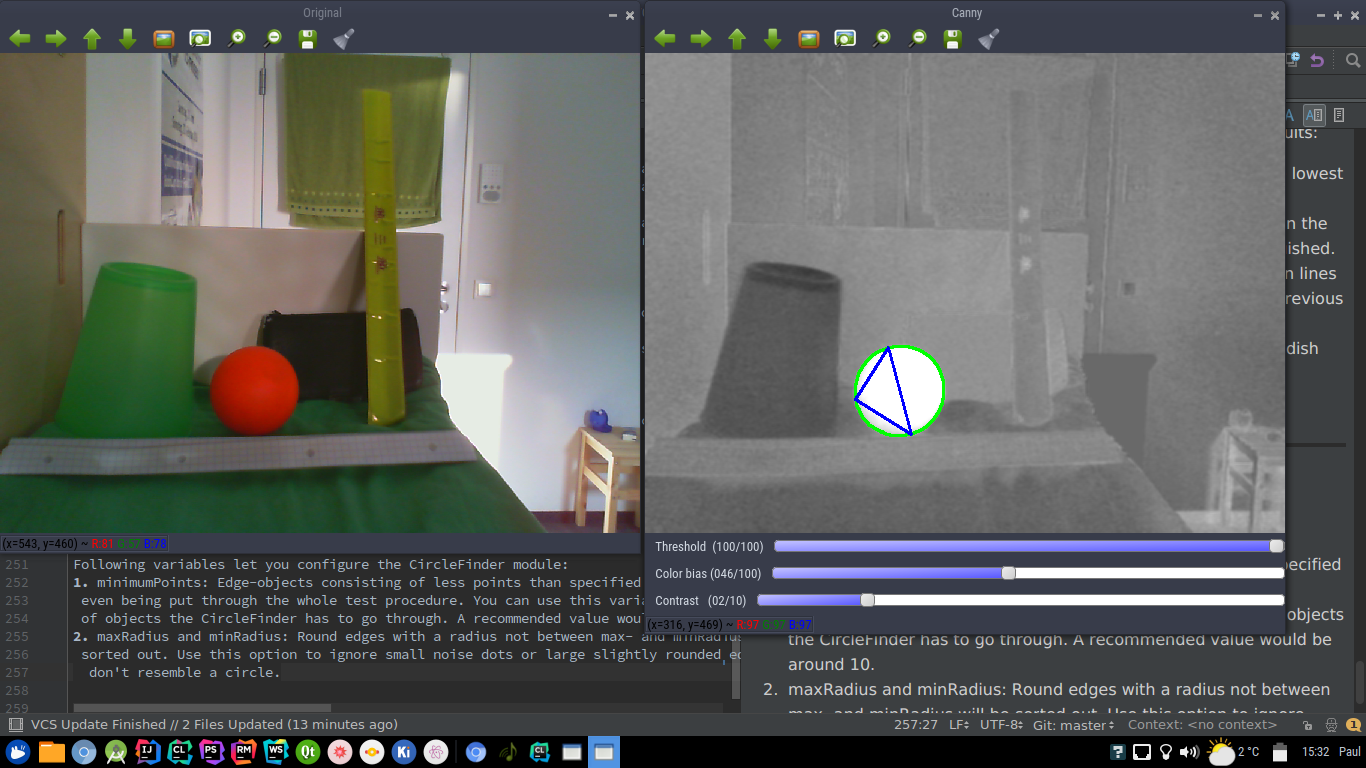
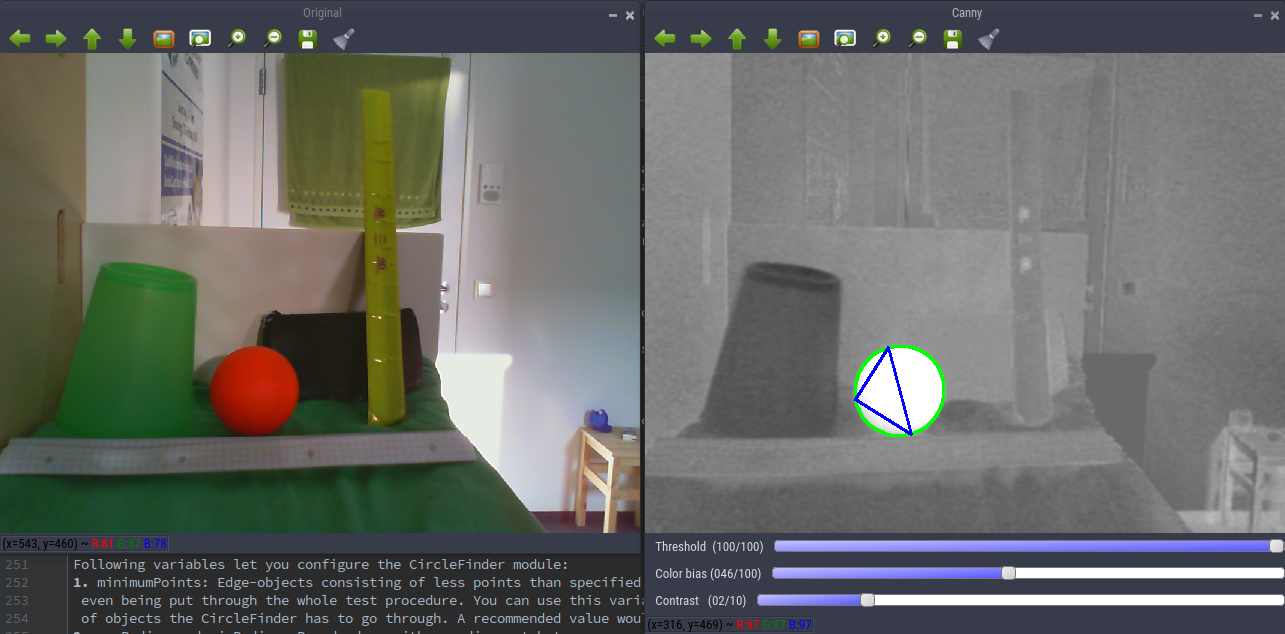
Changed format, cropped images

diff --git a/README.md b/README.md
@@ -236,31 +236,30 @@ There are three sliders which let you configure the canny threshold and the colo
 Example how to configure the three values to ensure the best results:
 1.  Set Threshold and Color bias to maximum and Contrast to the lowest possible amount before the
     image becomes only gray.
-    
+    <br><br><br>
     ![Image Step 1](https://git.markdorf-robotics.de/panykiel/OrangeBall/raw/master/calibrationImg/filterStep1.png "Step 1")
-
+    <br><br><br>
 2.  Set Color bias to a value where all background colors appear in the same grayish tone and
     only reddish colors are clearly distinguished.
-    
+    <br><br><br>
     ![Image Step 2](https://git.markdorf-robotics.de/panykiel/OrangeBall/raw/master/calibrationImg/filterStep2.png "Step 2")
-
+    <br><br><br>
 3.  Adjust the contrast so reddish areas are marked by red / green lines (detected as edge). You can do this
     simultaneously with the previous step if necessary.
-    
+    <br><br><br>
     ![Image Step 3](https://git.markdorf-robotics.de/panykiel/OrangeBall/raw/master/calibrationImg/filterStep3.png "Step 3")
 
-    
+    <br><br><br>
 4.  Reduce the Canny threshold to improve edge detection of reddish objects. Don't go to low
     to avoid noise.
-    
+    <br><br><br>
     ![Image Step 4](https://git.markdorf-robotics.de/panykiel/OrangeBall/raw/master/calibrationImg/filterStep4.png "Step 4")
-
+    <br><br><br>
     or
-    
+    <br><br><br>
     ![Image Step 4 alternative](https://git.markdorf-robotics.de/panykiel/OrangeBall/raw/master/calibrationImg/filterStep4_1.png "Step 4 alternative")
 
  
-@TODO Example images!
 
 ---
 #### Configure the circle detection
